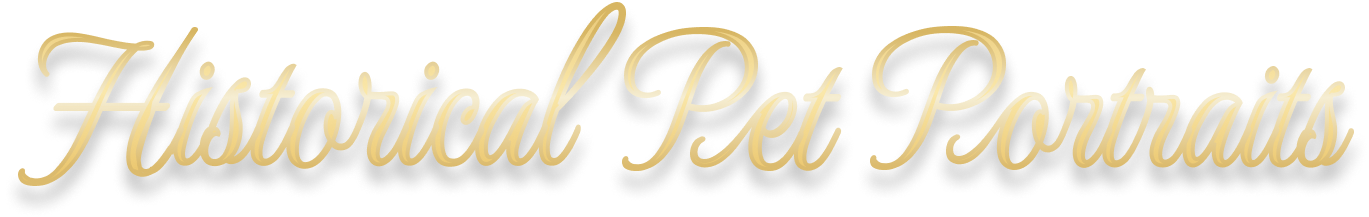
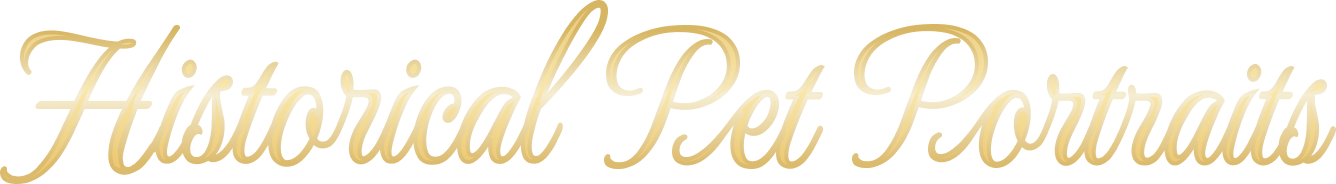
Services page adjusted

diff --git a/public/pages/services/services.html b/public/pages/services/services.html
@@ -41,17 +41,25 @@
                 <div class="services-slideshow-container">
                     <div class="service-gallery">
                         <div class="service-slide fade">
-                            <img src="../../img/placeholders/western.jpg" alt="Western Family" />
+                            <img src="../../img/services/choose-a-theme/cowboys-and-cowgirls.jpg"
+                                alt="Western Family" />
                             <h1 class="sr-only">Western Family Photo</h1>
                         </div>
-                        <!-- CHANGE THIS PHOTO ************ -->
-                        <!-- <div class="service-slide fade">
-                            <img src="../../img/placeholders/victorian.jpg" alt="Victorian Family" />
-                            <h1 class="sr-only">Victorian Family Photo</h1>
-                        </div> -->
                         <div class="service-slide fade">
-                            <img src="../../img/placeholders/wedding.png" alt="Wedding Couple" />
+                            <img src="../../img/services/choose-a-theme/wedding.jpg" alt="Wedding Couple" />
                             <h1 class="sr-only">Wedding Couple Photo</h1>
+                        </div>
+                        <div class="service-slide fade">
+                            <img src="../../img/services/choose-a-theme/victorian.jpg" alt="Victorian Family" />
+                            <h1 class="sr-only">Victorian Couple Photo</h1>
+                        </div>
+                        <div class="service-slide fade">
+                            <img src="../../img/services/choose-a-theme/pirates.jpg" alt="Pirate Father and Baby" />
+                            <h1 class="sr-only">Pirate Duo Photo</h1>
+                        </div>
+                        <div class="service-slide fade">
+                            <img src="../../img/services/choose-a-theme/roaring-20s.jpg" alt="Roaring 20's Family" />
+                            <h1 class="sr-only">Roaring 20's Family Photo</h1>
                         </div>
                     </div>
 
@@ -76,22 +84,27 @@
                 <div class="service-header">
                     <img src="../../img/headers/services-headers/pet-photography.png" alt="Pet Photography" />
                     <h2 class="sr-only">Pet Photography</h2>
+                    <h3 class="service-description">Our pet-friendly studio will give your furry <br class="large-br">friends the spotlight
+                        they
+                        deserve!<br> <span>Pets of all kinds are welcome!</span></h3>
                 </div>
-                <h3 class="service-description">Our pet-friendly studio will give your furry friends the spotlight they
-                    deserve!<br> Pets of all kinds are welcome!</h3>
                 <div class="services-slideshow-container">
                     <div class="service-gallery">
                         <div class="service-slide fade">
-                            <img src="../../img/themes/pets/p6091489.jpg" alt="Western Puppy" />
-                            <h1 class="sr-only">Western Puppy Photo</h1>
-                        </div>
-                        <div class="service-slide fade">
-                            <img src="../../img/themes/pets/2-dogs-western.jpg" alt="Western Dogs" />
+                            <img src="../../img/services/pet-photos/western-dogs.jpg" alt="Western Dogs" />
                             <h1 class="sr-only">Western Dogs Photo</h1>
                         </div>
                         <div class="service-slide fade">
-                            <img src="../../img/themes/pets/pets-main.jpg" alt="Fancy Dog in a Top Hat" />
-                            <h1 class="sr-only">Dog in a Top Hat Photo</h1>
+                            <img src="../../img/services/pet-photos/western-bunny.jpg" alt="Western Bunny" />
+                            <h1 class="sr-only">Western Bunny Photo</h1>
+                        </div>
+                        <div class="service-slide fade">
+                            <img src="../../img/services/pet-photos/wedding-dogs.jpg" alt="Wedding Dogs" />
+                            <h1 class="sr-only">Wedding Dogs Photo</h1>
+                        </div>
+                        <div class="service-slide fade">
+                            <img src="../../img/services/pet-photos/winter-kitty.jpg" alt="Winter Kitty" />
+                            <h1 class="sr-only">Winter Kitty Photo</h1>
                         </div>
                     </div>
 
@@ -117,37 +130,41 @@
                     <img src="../../img/headers/services-headers/historical-pet-portraits.png"
                         alt="Historical Pet Portraits" />
                     <h2 class="sr-only">Historical Pet Portraits</h2>
+                    <h3 class="service-description">Our historical pet portraits combine period styling with <br class="large-br">your pet's
+                        personality for a keepsake that's <br class="large-br">equal parts charming and hilarious.<br> <span>Bring your pet's
+                            noble ancestry to life!</span></h3>
                 </div>
-                <h3 class="service-description">Our historical pet portraits combine period styling with your pet's
-                    personality for a keepsake that's equal parts charming and hilarious.</h3>
-                <div class="service-slideshow-container">
+                <div class="services-slideshow-container">
                     <div class="service-gallery">
                         <div class="service-slide fade">
-                            <img class="default-img" src="../../img/historical-pet-portraits/sage/sage.jpg"
-                                alt="Sage the Cat on Template 21" />
-
-                            <img class="hover-img" src="../../img/historical-pet-portraits/sage/original-sage.jpg"
+                            <img src="../../img/historical-pet-portraits/sage/original-sage.jpg"
                                 alt="Original Photo of Sage the Cat" />
-
-                            <h1 class="sr-only">Cat in Historical Pet Portrait wearing fancy dress</h1>
+                            <h1 class="sr-only">Original Photo of Sage the Cat</h1>
+                        </div>
+                        <div class="service-slide fade">
+                            <img src="../../img/historical-pet-portraits/sage/sage.jpg"
+                                alt="Sage the Cat in a fancy period dress" />
+                            <h1 class="sr-only">Historical Portrait of Sage the Cat</h1>
+                        </div>
+                        <div class="service-slide fade">
+                            <img src="../../img/historical-pet-portraits/abby/original-abby.JPG"
+                                alt="Original Photo of Abby the Dog" />
+                            <h1 class="sr-only">Original Photo of Abby the Dog</h1>
                         </div>
                         <div class="service-slide fade">
                             <img src="../../img/historical-pet-portraits/abby/abby.jpg"
-                                alt="Abby the Dog on Template 13" />
-
-                            <img class="hover-img" src="../../img/historical-pet-portraits/abby/original-abby.JPG"
-                                alt="Original Photo of Abby the Dog" />
-
-                            <h1 class="sr-only">Dog in Historical Pet Portrait wearing fancy clothing</h1>
+                                alt="Abby the Dog in fancy period clothing" />
+                            <h1 class="sr-only">Historical Portrait of Abby the Dog</h1>
+                        </div>
+                        <div class="service-slide fade">
+                            <img src="../../img/historical-pet-portraits/connor/original-connor.jpg"
+                                alt="Original Photo of Connor the Bird" />
+                            <h1 class="sr-only">Original Photo of Connor the Bird</h1>
                         </div>
                         <div class="service-slide fade">
                             <img src="../../img/historical-pet-portraits/connor/connor.jpg"
-                                alt="Connor the Bird on Template 4" />
-
-                            <img class="hover-img" src="../../img/historical-pet-portraits/connor/original-connor.jpg"
-                                alt="Original Photo of Connor the Bird" />
-
-                            <h1 class="sr-only">Bird in Historical Pet Portrait wearing fancy suit</h1>
+                                alt="Connor the Bird in a fancy period suit" />
+                            <h1 class="sr-only">Historical Portrait of Connor the Bird</h1>
                         </div>
                     </div>
 
@@ -168,28 +185,62 @@
             </div>
         </div>
         <div class="service-content" id="award-winning">
-           <div class="service-content-wrapper">
+            <div class="service-content-wrapper">
                 <div class="service-header">
                     <img src="../../img/headers/services-headers/award-winning.png" alt="Award-Winning Photography" />
                     <h2 class="sr-only">Award-Winning Photography</h2>
-                    <h3 class="service-description">We don't just take photos. We create award-winning portraits that
-                        capture personality, connection, and history.</h3>
+                    <h3 class="service-description">We don't just take photos. <br class="large-br">We create award-winning portraits that
+                        capture <br class="large-br">personality, connection, and history.</h3>
                 </div>
-                <div class="service-gallery">
-                    <div class="service-slide fade">
-                        <div class="gallery-placeholder">Award-Winning<br>Family Portrait</div>
+                <div class="services-slideshow-container">
+                    <div class="service-gallery">
+                        <div class="service-slide fade">
+                            <img src="../../img/services/awards/11_A_AntiquePhotoParlour_2025_TrinDibble.jpg"
+                                alt="Award Winning Photo of a Family Dressed as Victorians" />
+                            <h1 class="sr-only">AAPI 2025 2nd Place Winner</h1>
+                        </div>
+                        <div class="service-slide fade">
+                            <img src="../../img/services/awards/4_A_AntiquePhotoParlour_2025_AmandaIrvine.jpg"
+                                alt="Award Winning Photo of a Toddler Dressed as a 20's Flapper" />
+                            <h1 class="sr-only">AAPI 2025 2nd Place Winner</h1>
+                        </div>
+                        <div class="service-slide fade">
+                            <img src="../../img/services/awards/25_A_AntiquePhotoParlour_2025_TrinDibble.jpg"
+                                alt="Award Winning Photo of Two Dogs Dresed as Bride and Groom" />
+                            <h1 class="sr-only">AAPI 2025 3rd Place Winner</h1>
+                        </div>
+                        <div class="service-slide fade">
+                            <img src="../../img/services/awards/17_A_AntiquePhotoParlour_2025_LisaDibble.jpg"
+                                alt="Award Winning Photo of a Man Dressed as a Native American" />
+                            <h1 class="sr-only">AAPI 2025 3rd Place Winner</h1>
+                        </div>
+                        <div class="service-slide fade">
+                            <img src="../../img/services/awards/12_A_AntiquePhotoParlour_2025_AivreeIrvine.jpg"
+                                alt="Award Winning Photo of a Father and Daughter Dressed as Cowboys & Cowgirls" />
+                            <h1 class="sr-only">AAPI 2025 3rd Place Winner</h1>
+                        </div>
+                        <div class="service-slide fade">
+                            <img src="../../img/services/awards/26_A_AntiquePhotoParlour_2025_AlexBrownlee.jpg"
+                                alt="Award Winning Photo of a Woman and her Dog" />
+                            <h1 class="sr-only">AAPI 2025 3rd Place Winner</h1>
+                        </div>
                     </div>
-                    <div class="service-slide fade">
-                        <div class="gallery-placeholder">Award-Winning<br>Couple Portrait</div>
-                    </div>
-                    <div class="service-slide fade">
-                        <div class="gallery-placeholder">Award-Winning<br>Animal Portrait</div>
-                    </div>
+
+                    <button class="service-slideshow-nav service-slideshow-nav-prev">
+                        <img src="../../../img/assets/slideshow-arrows/gold-flourish.png"
+                            alt="Fancy gold arrow pointing left">
+                    </button>
+                    <button class="service-slideshow-nav service-slideshow-nav-next">
+                        <img src="../../../img/assets/slideshow-arrows/gold-flourish.png"
+                            alt="Fancy gold arrow pointing right">
+                    </button>
+                    <div class="service-slideshow-hover-zone service-slideshow-hover-left"></div>
+                    <div class="service-slideshow-hover-zone service-slideshow-hover-right"></div>
                 </div>
                 <div class="action-buttons">
                     <a href="../awards/awards.html" class="btn btn-primary">Learn More</a>
                 </div>
-           </div>
+            </div>
         </div>
     </main>
 </div>

diff --git a/public/css/pages/services.css b/public/css/pages/services.css
@@ -208,8 +208,16 @@
   max-width: 7.8rem;
 }
 
+#pet-photos .service-header img {
+  max-width: 9rem;
+}
+
 #historical-pet .service-header img {
-  max-width: 10rem;
+  max-width: 11rem;
+}
+
+#award-winning .service-header img {
+  max-width: 8.6rem;
 }
 
 .service-description {
@@ -1228,7 +1236,7 @@
     padding: 2% 0;
   }
 
-  #themes .service-header h3 span {
+  .service-header h3 span {
     display: none;
   }
 }
@@ -1541,7 +1549,7 @@
   }
 
   #historical-pet .service-header img {
-    max-width: 16rem;
+    max-width: 18rem;
     transition: max-width 0.3s ease;
   }
 
@@ -1659,7 +1667,7 @@
     height: 3.8rem;
   }
 
-  .nav-item.active:first-of-type,
+  .nav-item:first-of-type,
   .nav-item.active {
     padding: 0;
   }
@@ -1704,6 +1712,21 @@
 
   #themes .service-header img {
     max-width: 14rem;
+    transition: max-width 0.3s ease;
+  }
+
+  #pet-photos .service-header img {
+    max-width: 16rem;
+    transition: max-width 0.3s ease;
+  }
+
+  #historical-pet .service-header img {
+    max-width: 20rem;
+    transition: max-width 0.3s ease;
+  }
+
+  #award-winning .service-header img {
+    max-width: 16rem;
     transition: max-width 0.3s ease;
   }
 
@@ -1826,7 +1849,7 @@
     height: 4.8rem;
   }
 
-  .nav-item.active:first-of-type,
+  .nav-item:first-of-type,
   .nav-item.active {
     padding: 0;
   }
@@ -1870,6 +1893,21 @@
 
   #themes .service-header img {
     max-width: 17rem;
+    transition: max-width 0.3s ease;
+  }
+
+  #pet-photos .service-header img {
+    max-width: 20rem;
+    transition: max-width 0.3s ease;
+  }
+
+  #historical-pet .service-header img {
+    max-width: 26rem;
+    transition: max-width 0.3s ease;
+  }
+
+  #award-winning .service-header img {
+    max-width: 19rem;
     transition: max-width 0.3s ease;
   }
 
@@ -1998,7 +2036,7 @@
     height: 6rem;
   }
 
-  .nav-item.active:first-of-type,
+  .nav-item:first-of-type,
   .nav-item.active {
     padding: 0;
   }
@@ -2042,6 +2080,21 @@
 
   #themes .service-header img {
     max-width: 17rem;
+    transition: max-width 0.3s ease;
+  }
+
+  #pet-photos .service-header img {
+    max-width: 20rem;
+    transition: max-width 0.3s ease;
+  }
+
+  #historical-pet .service-header img {
+    max-width: 26rem;
+    transition: max-width 0.3s ease;
+  }
+
+  #award-winning .service-header img {
+    max-width: 19rem;
     transition: max-width 0.3s ease;
   }
 
@@ -2171,7 +2224,7 @@
     height: 6rem;
   }
 
-  .nav-item.active:first-of-type,
+  .nav-item:first-of-type,
   .nav-item.active {
     padding: 0;
   }
@@ -2215,6 +2268,21 @@
 
   #themes .service-header img {
     max-width: 17rem;
+    transition: max-width 0.3s ease;
+  }
+
+  #pet-photos .service-header img {
+    max-width: 20rem;
+    transition: max-width 0.3s ease;
+  }
+
+  #historical-pet .service-header img {
+    max-width: 26rem;
+    transition: max-width 0.3s ease;
+  }
+
+  #award-winning .service-header img {
+    max-width: 19rem;
     transition: max-width 0.3s ease;
   }
 

diff --git a/public/pages/slideshow/slideshow.html b/public/pages/slideshow/slideshow.html
@@ -135,7 +135,7 @@
                         <h1 class="sr-only">Kids</h1>
                         <p>Big Moments for Little Stars</p>
                     </div>
-                    <a href="../../../pages/themes/pets/historical-pet-portraits/historical-pet-portraits.html"
+                    <a href="../../../pages/themes/themes.html"
                         class="btn">See More</a>
                 </div>
             </div>
@@ -147,9 +147,8 @@
                         <h1 class="sr-only">Historical Pet Portraits</h1>
                         <p>Your Pet Reimagined as Royalty</p>
                     </div>
-                    <a href="../../../pages/themes/pets/historical-pet-portraits/historical-pet-portraits.html"
-                        class="btn">See
-                        More</a>
+                    <a href="../../../pages/themes/themes.html"
+                        class="btn">See More</a>
                 </div>
             </div>
             <div class="slide pets" style="background-image: url('../../img/slideshow/pets.JPG');">
